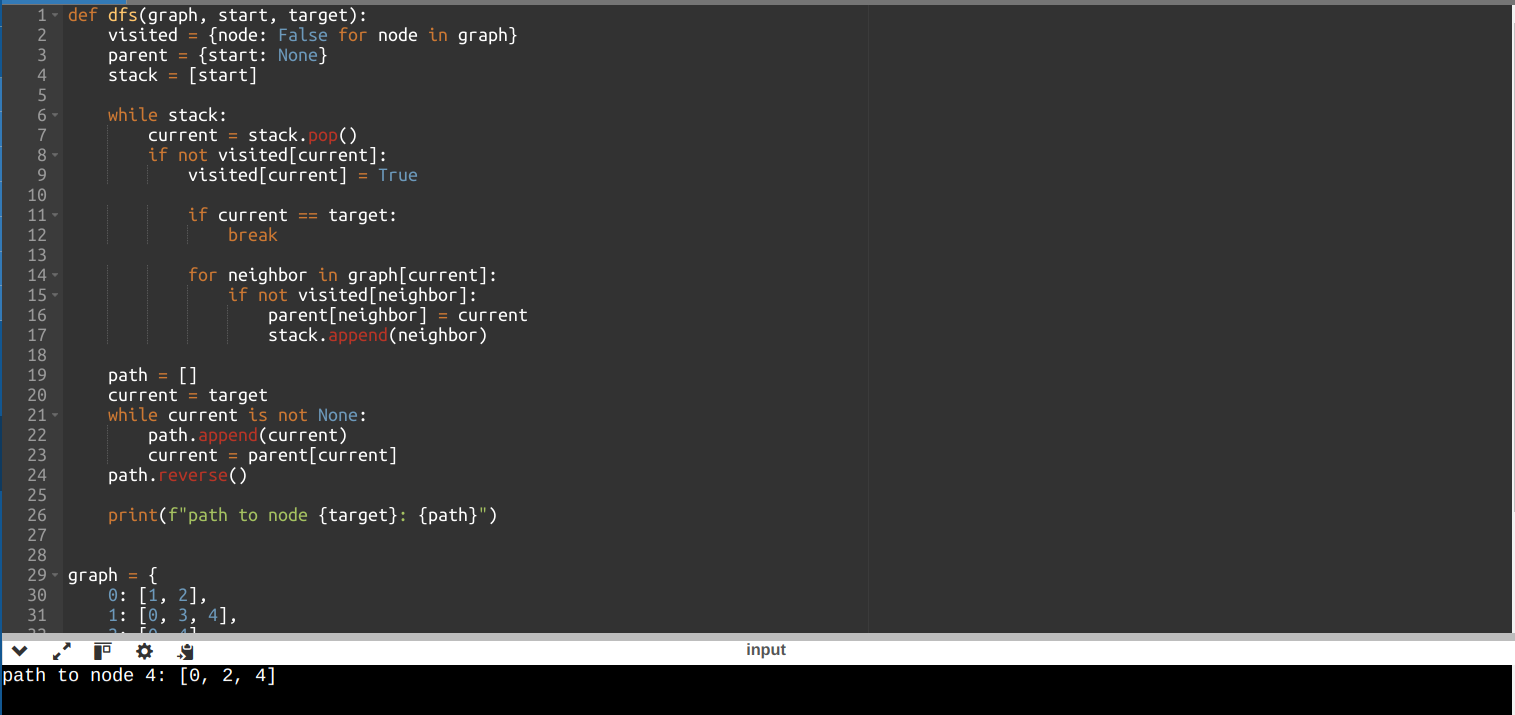
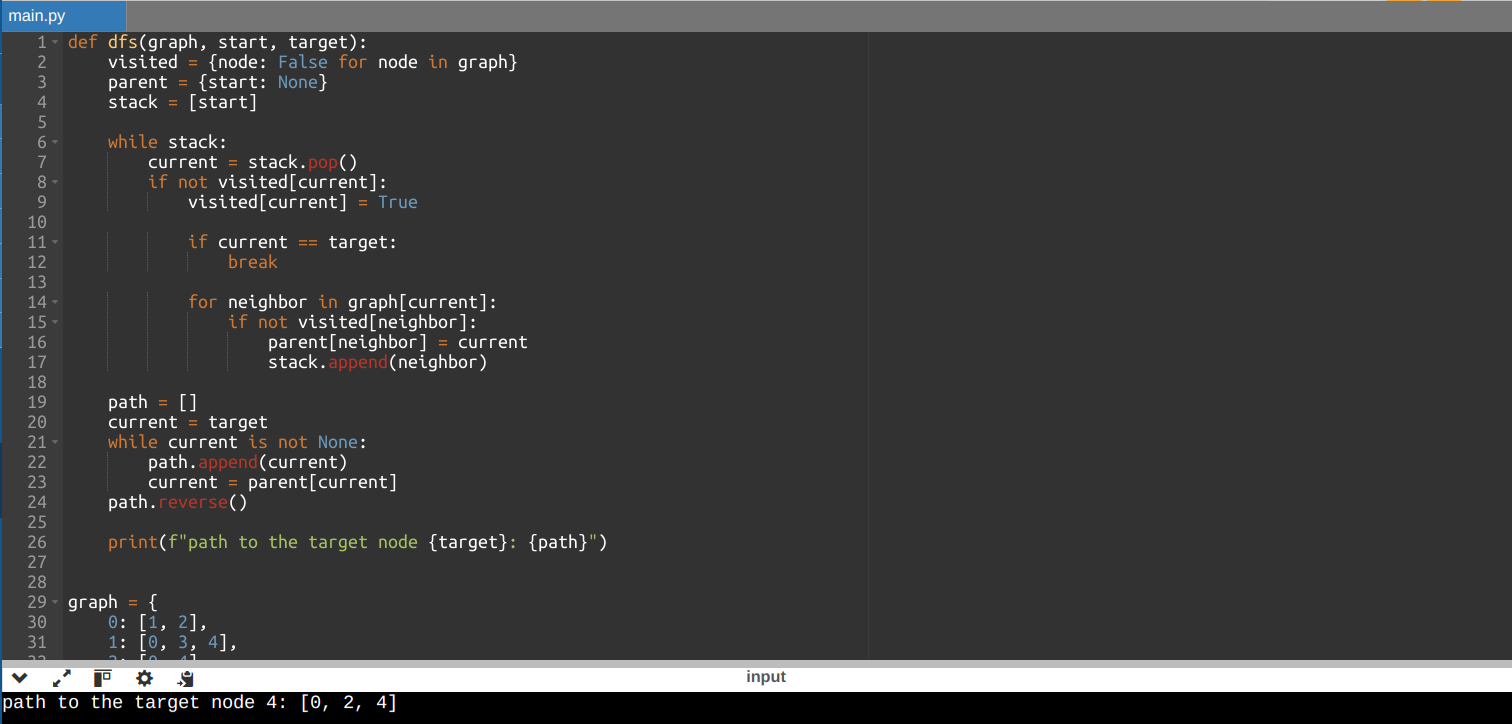
fix printed label

diff --git a/AI/Task 2/bfs.py b/AI/Task 2/bfs.py
@@ -27,7 +27,7 @@ def bfs(graph, start, target):
         current = parent[current]
     path.reverse()
 
-    print(f"path to node {target}: {path}")
+    print(f"path to the target node {target}: {path}")
 
 
 graph = {

diff --git a/AI/Task 2/dfs.py b/AI/Task 2/dfs.py
@@ -23,7 +23,7 @@ def dfs(graph, start, target):
         current = parent[current]
     path.reverse()
 
-    print(f"path to node {target}: {path}")
+    print(f"path to the target node {target}: {path}")
 
 
 graph = {
